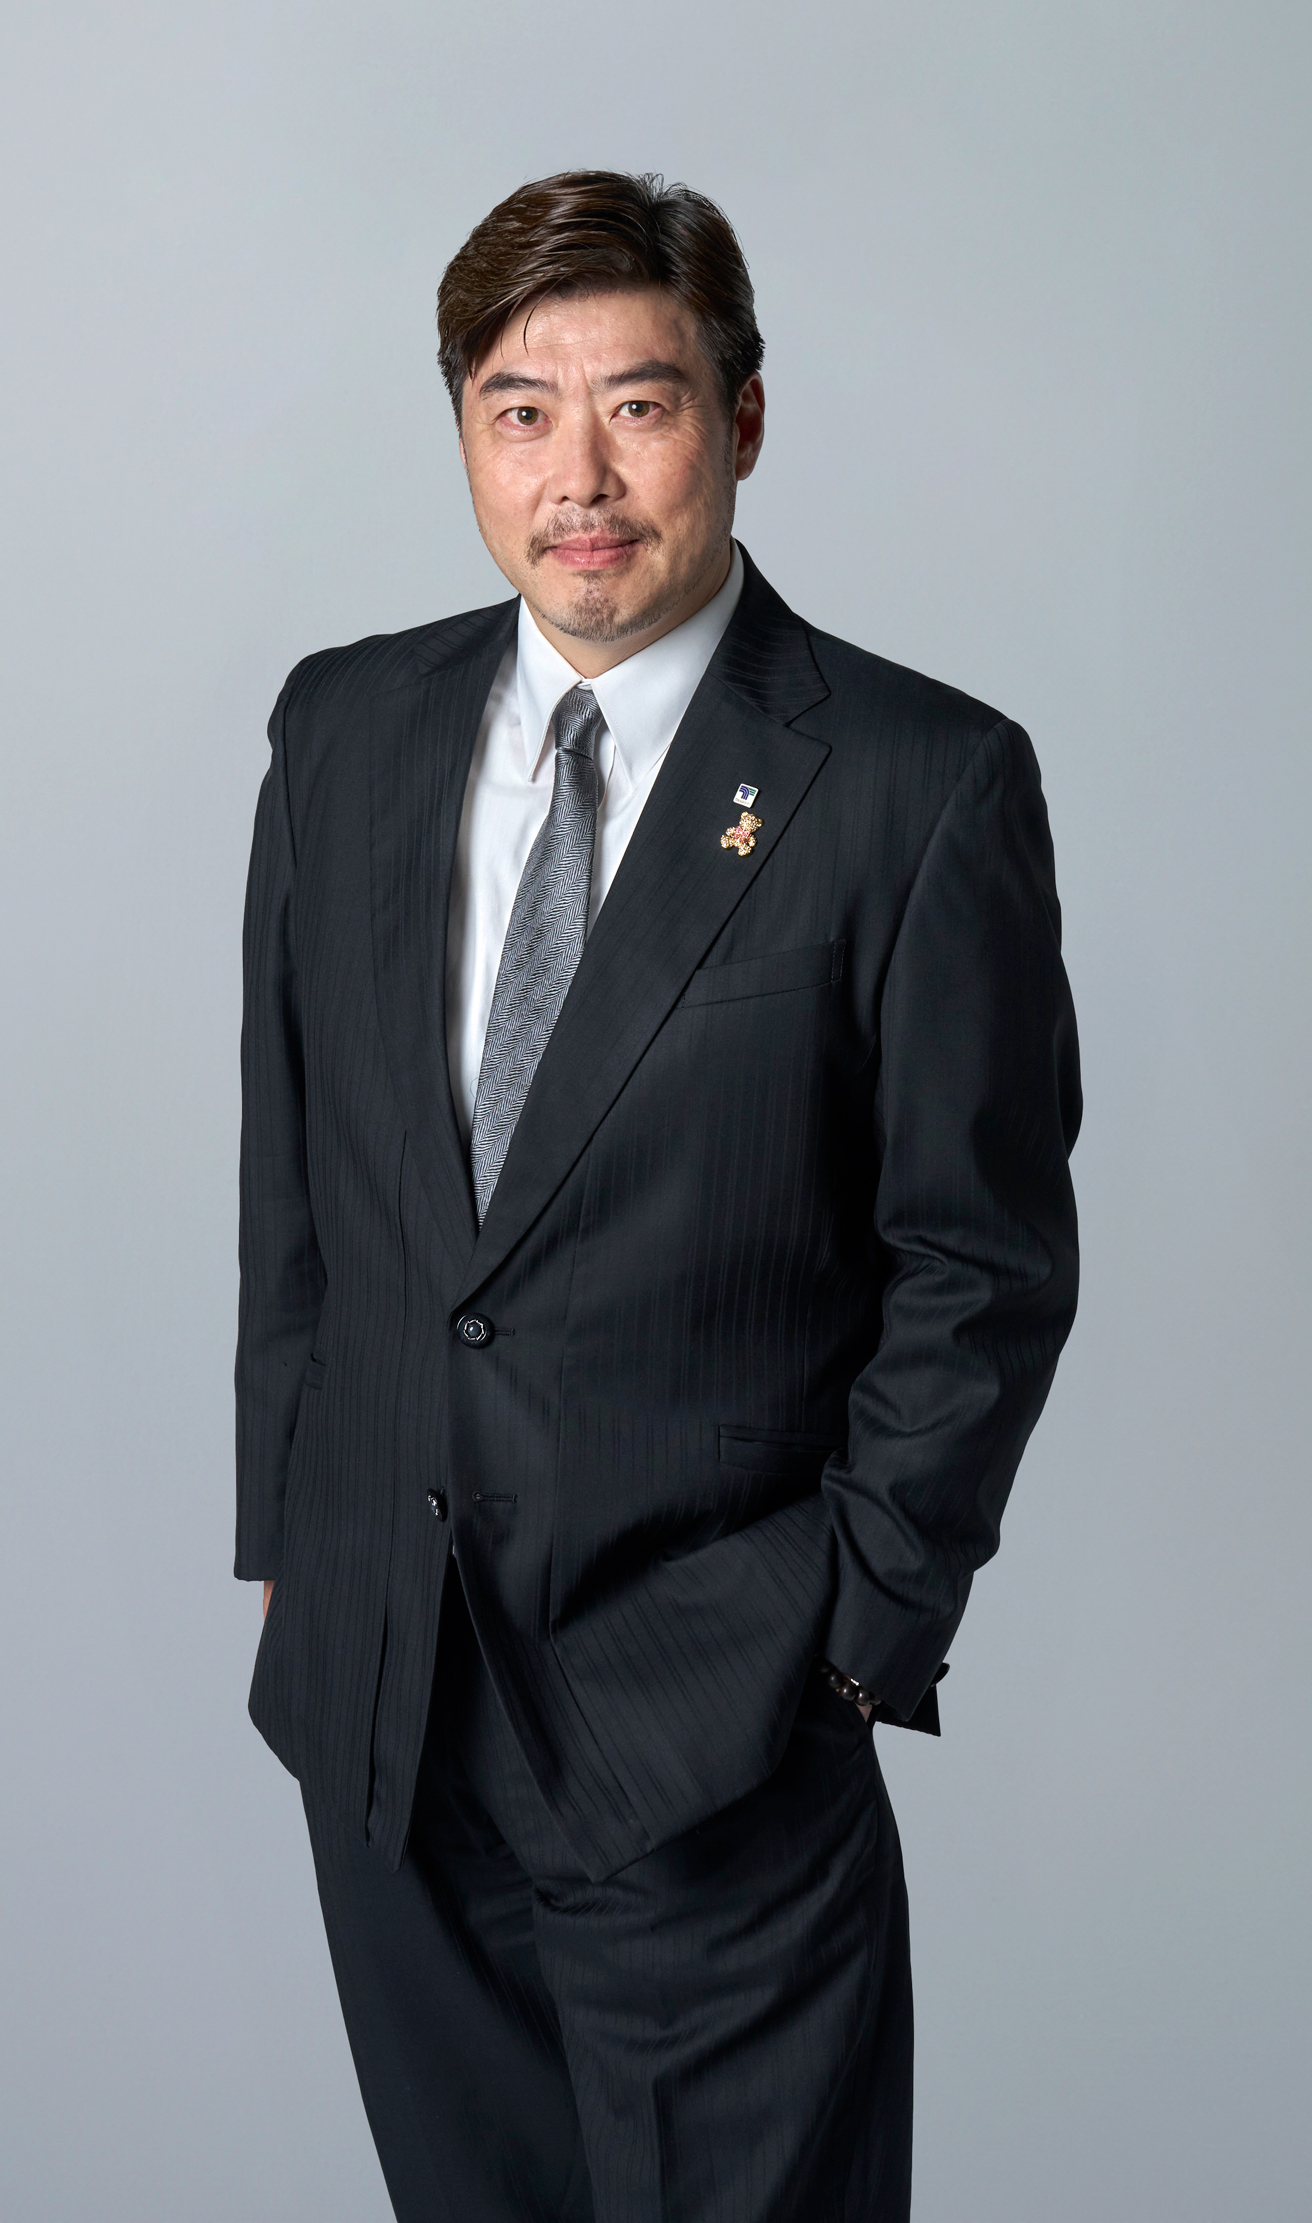
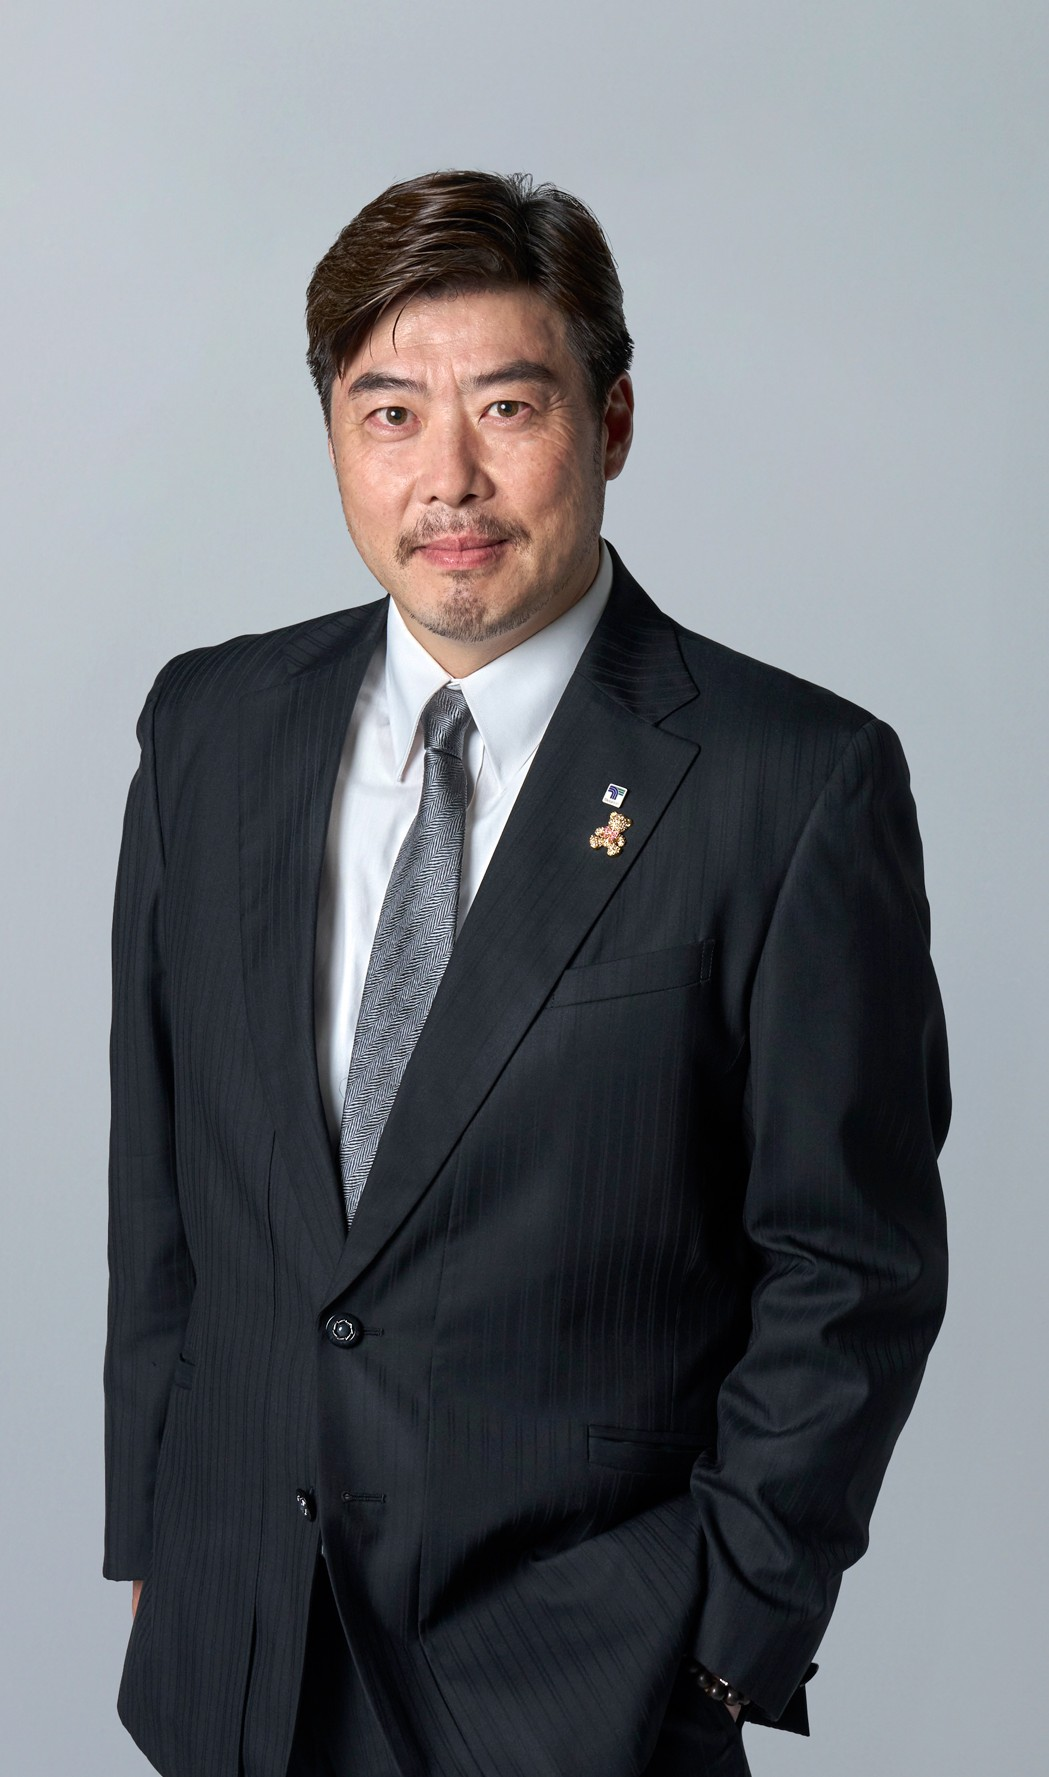
crop Takigawa photo, update bio

diff --git a/index.html b/index.html
@@ -1719,8 +1719,8 @@
             <img class="judge-avatar" src="assets/judge-Hiroshi Takigawa.jpg" alt="瀧川裕史" />
             <div class="judge-card-body">
               <p class="judge-name">瀧川裕史</p>
-              <p class="judge-salon">瀧川株式会社</p>
-              <p class="judge-bio">現任日本美業巨頭「瀧川株式會社」取締役副社長。身為引領日本理美容、髮品與美甲產業的靈魂人物，他同時兼任日本 NPO 法人「美容週振興協議會」理事長，長期站在美髮產業第一線，推動沙龍美學與數位轉型。他將以深厚的產業洞察與前瞻性的美學視野，為本次大賽發掘引領未來的頂尖設計師。</p>
+              <p class="judge-salon">滝川株式会社</p>
+              <p class="judge-bio">現任日本美業巨頭「滝川株式会社」副社長。身為引領日本理美容、髮品與美甲產業的靈魂人物，長期站在美髮產業第一線，推動沙龍美學與數位轉型。他將以深厚的產業洞察與前瞻性的美學視野，為本次大賽發掘引領未來的頂尖設計師。</p>
             </div>
           </div>
         </div>